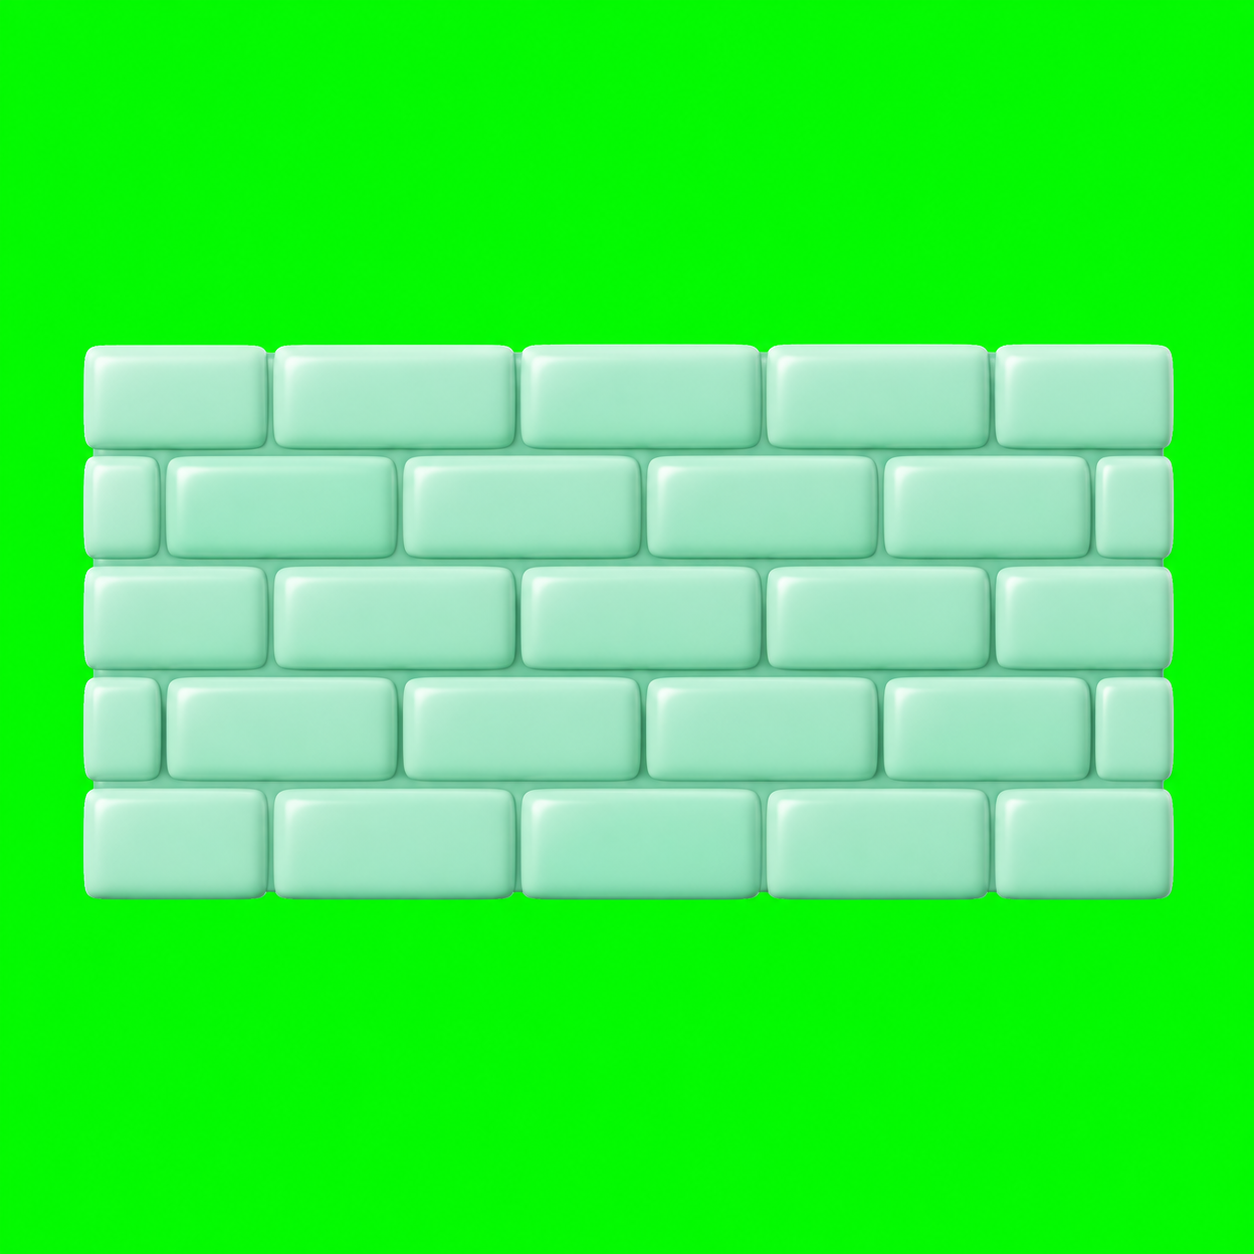
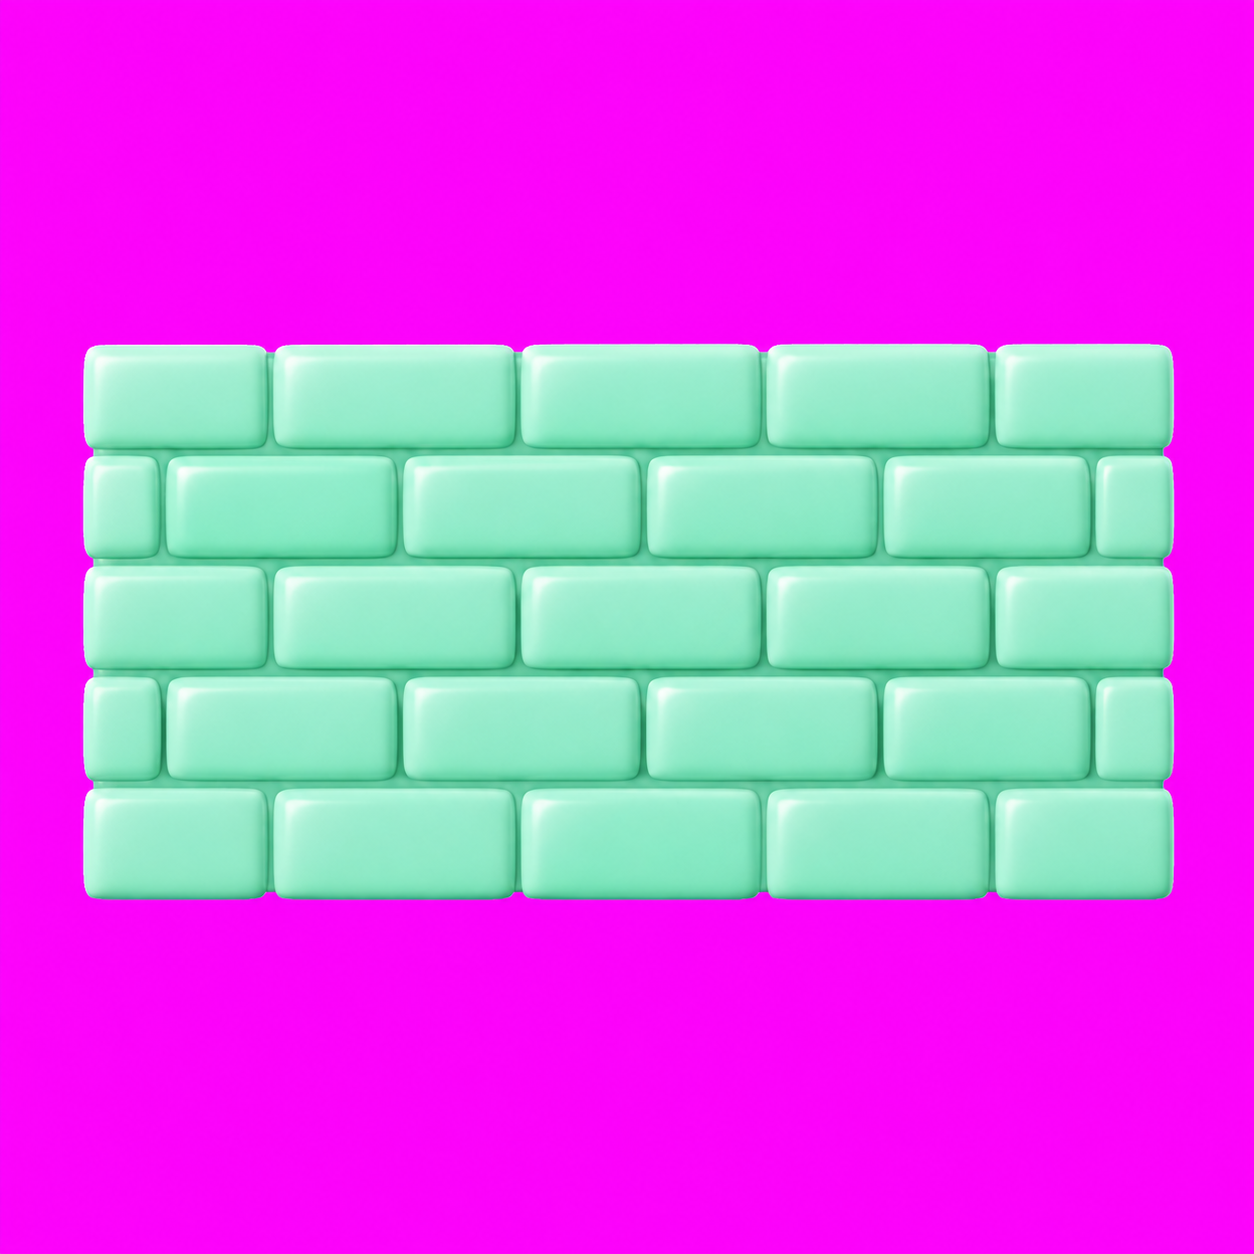
Visuals: exterior redos ext_wall_2 and ext_window_2 (magenta key)
Claude-Session: https://claude.ai/code/session_01T2RPzmrwk1maGKgdCJNgty

diff --git a/art-tasks/REDO.md b/art-tasks/REDO.md
@@ -6,5 +6,5 @@ Visuals sets the row to Done when the new image passes.
 
 | Batch | Id           | What is wrong                                                          | What to change                                            | Status |
 | ----- | ------------ | ---------------------------------------------------------------------- | --------------------------------------------------------- | ------ |
-| B11   | ext_wall_2   | Mint bricks lose their colour when the green background is removed     | Same wall, but on a flat **magenta #FF00FF** background   | Open   |
-| B11   | ext_window_2 | The green leaves in the flower box disappear with the green background | Same window, but on a flat **magenta #FF00FF** background | Open   |
+| B11   | ext_wall_2   | Mint bricks lose their colour when the green background is removed     | Same wall, but on a flat **magenta #FF00FF** background   | Done   |
+| B11   | ext_window_2 | The green leaves in the flower box disappear with the green background | Same window, but on a flat **magenta #FF00FF** background | Done   |
